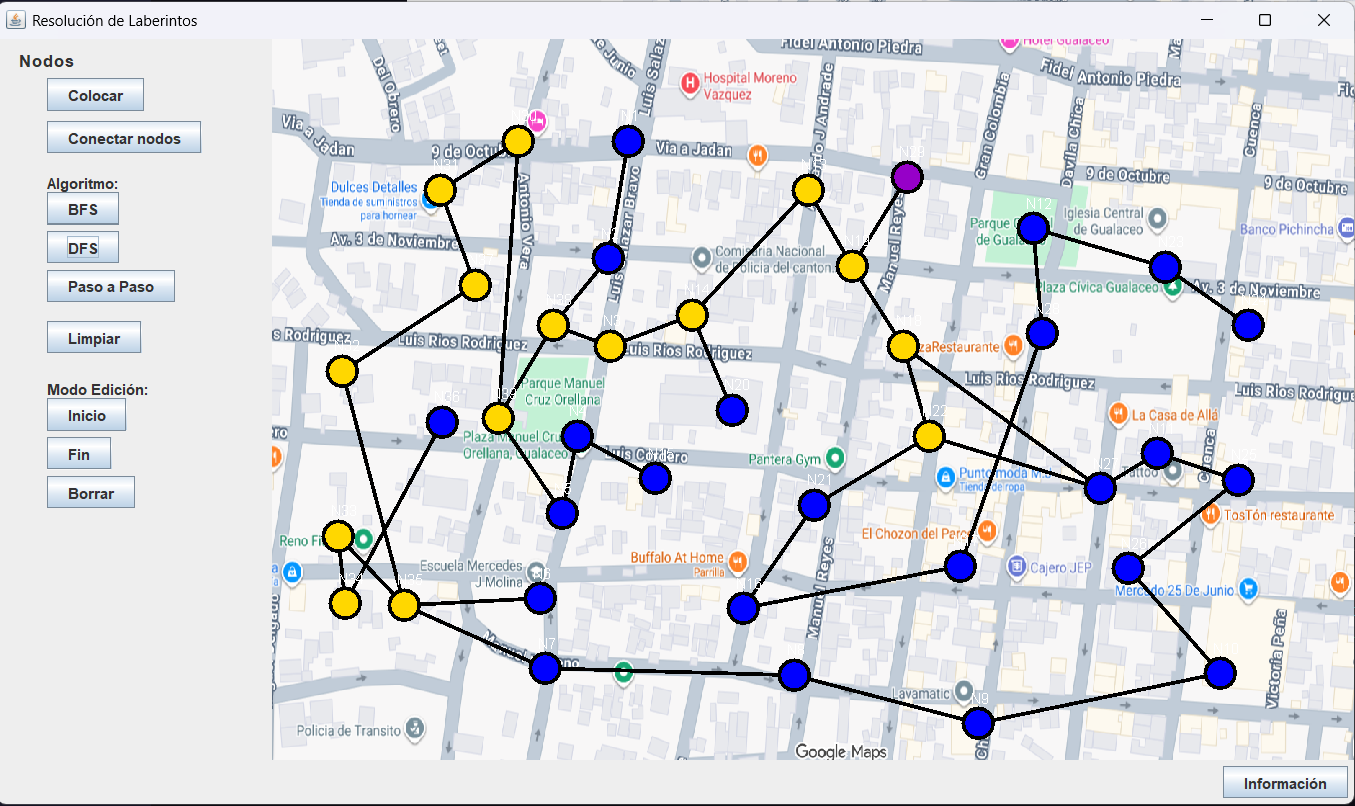
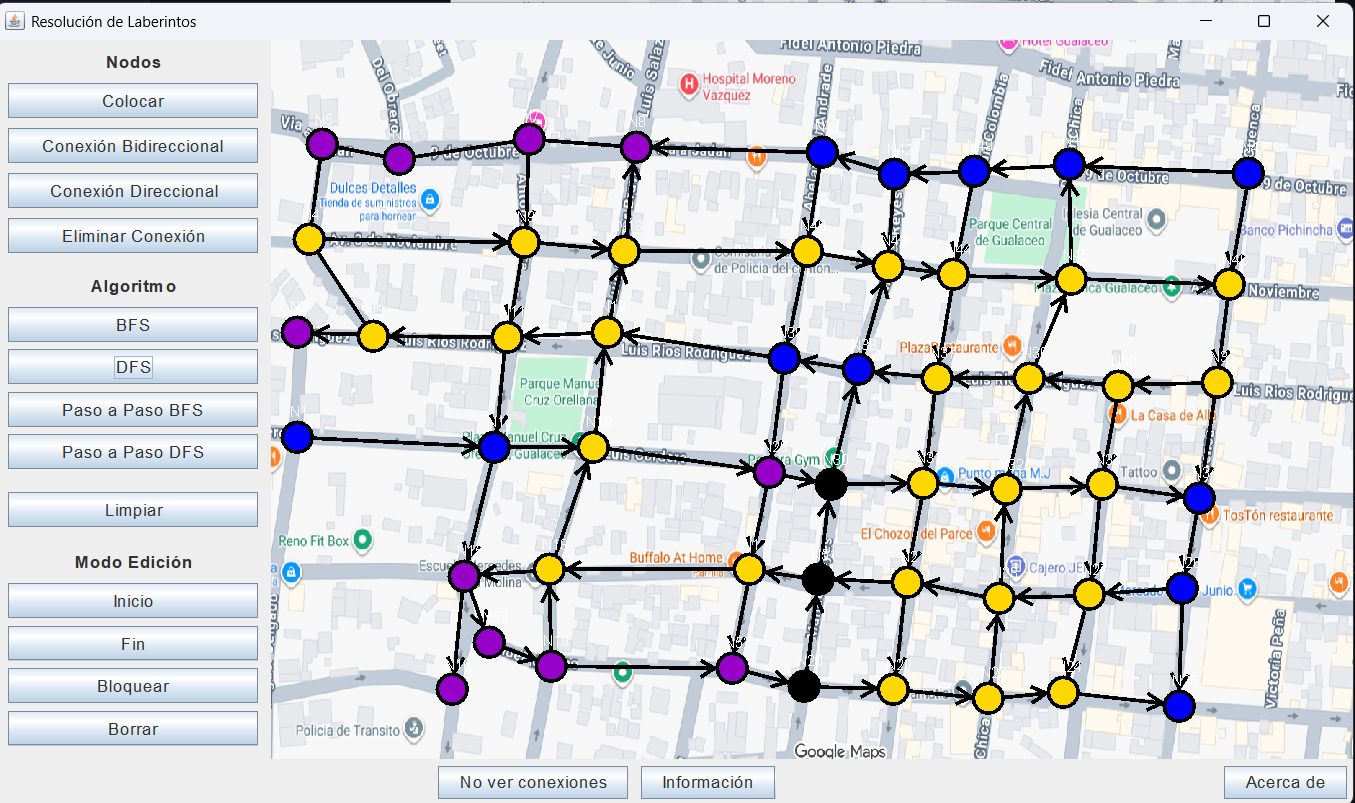
Proyecto Final - Estructura de Datos

Changed region(s): [[0.0, 0.0, 1.0, 1.0], [0.0, 0.0, 0.155, 0.0311], [0.062, 0.6849, 0.155, 0.7161]]

diff --git a/README.md b/README.md
@@ -79,11 +79,10 @@ App.java
 
 ## Capturas de Pantalla de la Aplicación
 
-### Interfaz principal
-![Interfaz principal](src/assets/InterfazGrafica.png)
+### Interfaz principal y Nodos Conectados
+![Interfaz principal y nodos conectados](src/assets/InterfazGyNC.png)
 
-### Colocación y conexión de nodos
-![Nodos conectados](src/assets/NodosConectados.png)
+
 
 ### Ejecución de BFS
 ![BFS](src/assets/BFS.png)
